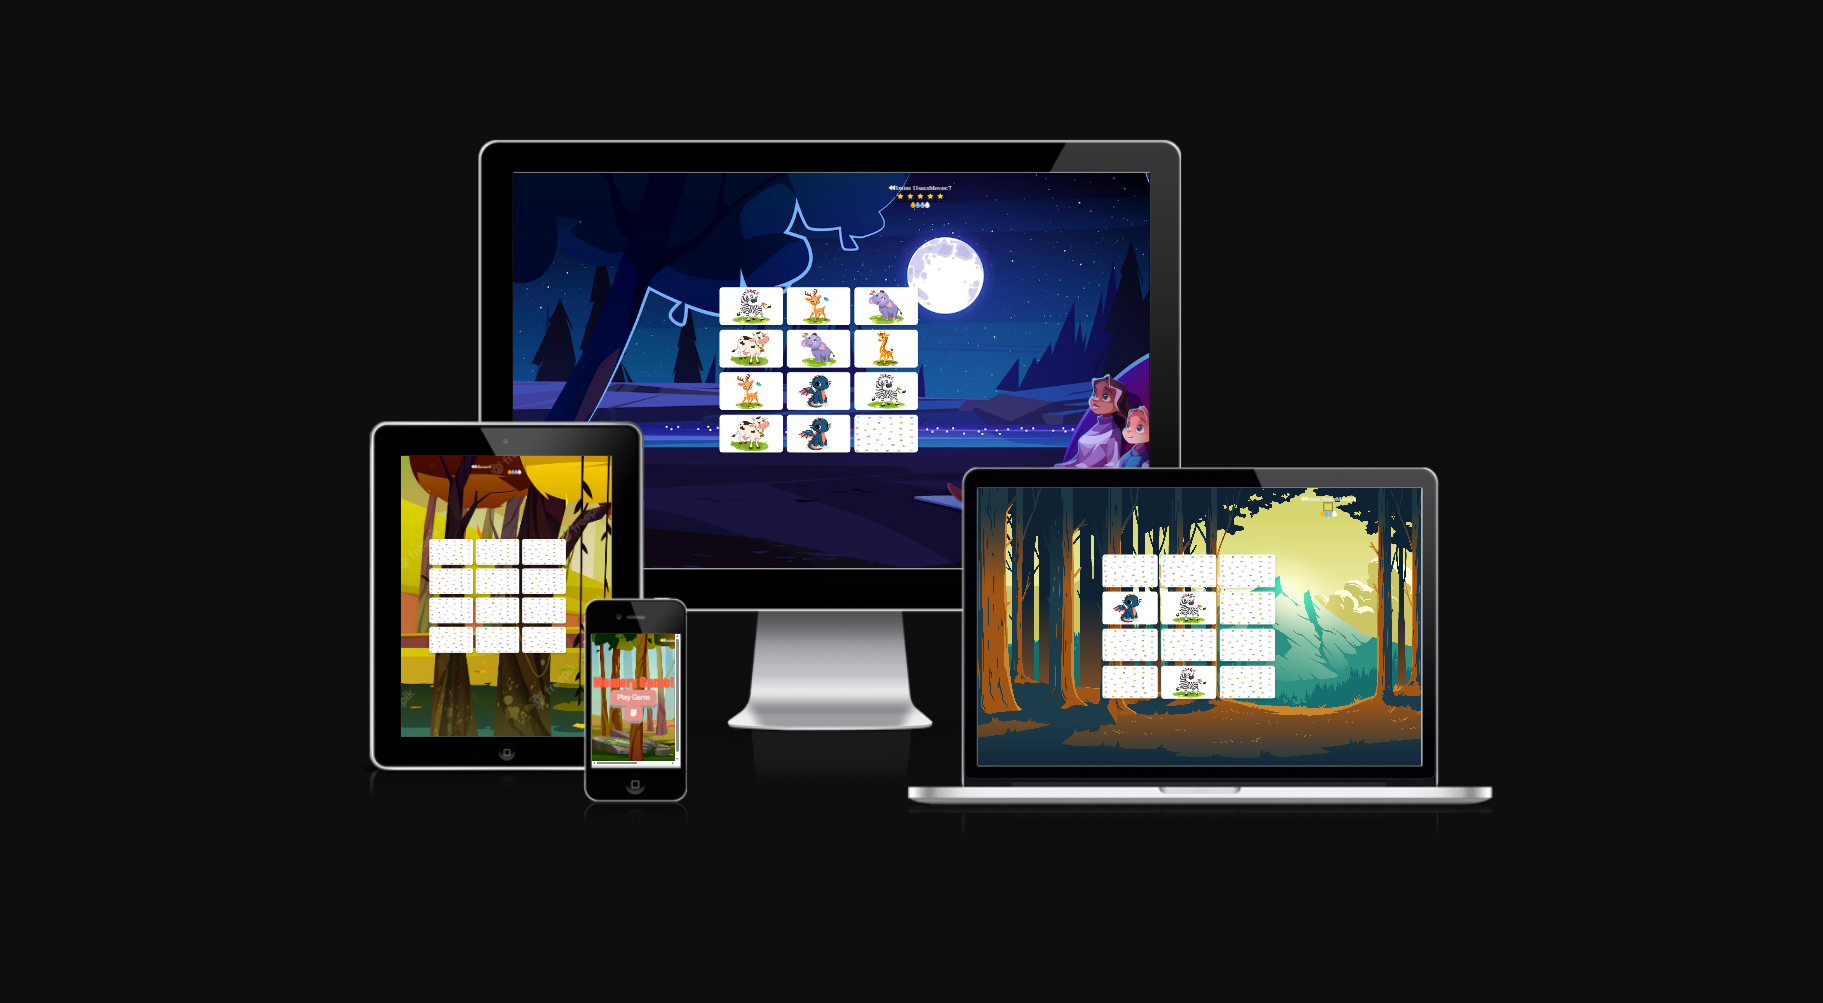
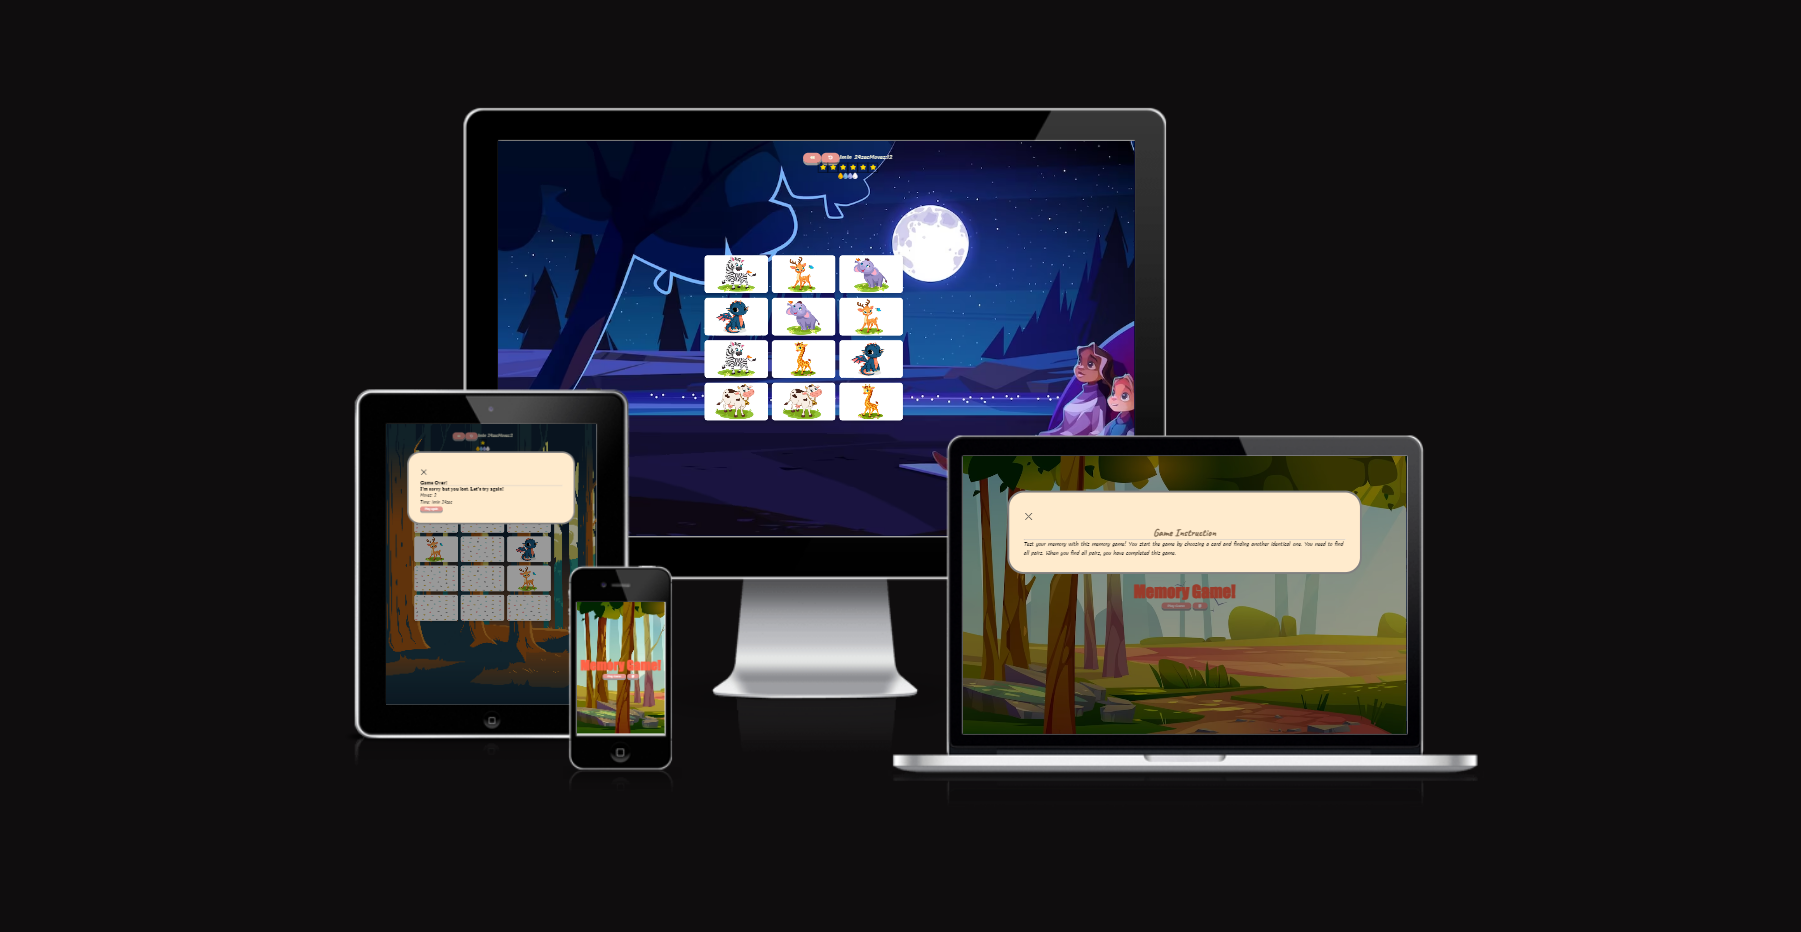
Updated structure to html file after validator testing

Changed region(s): [[0.1866, 0.0933, 0.8395, 0.8401]]

diff --git a/index.html b/index.html
@@ -1,169 +1,137 @@
 <!DOCTYPE html>
 <html lang="en">
 
-<head>
-    <meta charset="UTF-8">
-    <meta name="viewport" content="width=device-width, initial-scale=1.0">
-
-    <!-- font awesome and google fonts -->
-    <link rel="stylesheet" href="https://use.fontawesome.com/releases/v5.7.2/css/all.css"
-        integrity="sha384-fnmOCqbTlWIlj8LyTjo7mOUStjsKC4pOpQbqyi7RrhN7udi9RwhKkMHpvLbHG9Sr" crossorigin="anonymous">
-    <link href="https://fonts.googleapis.com/css2?family=Poppins:wght@400;600&display=swap"rel="stylesheet"/>
-    <link rel="stylesheet" href="https://cdnjs.cloudflare.com/ajax/libs/hover.css/2.1.1/css/hover-min.css" type="text/css" />
-    <link rel="stylesheet" href="assets/css/style.css">
-    
-    
-    <title>Memory Game</title>
-<body>
-
+  <head>
+      <meta charset="UTF-8">
+      <meta name="viewport" content="width=device-width, initial-scale=1.0">
+      <link rel="stylesheet" href="https://use.fontawesome.com/releases/v5.7.2/css/all.css"
+          integrity="sha384-fnmOCqbTlWIlj8LyTjo7mOUStjsKC4pOpQbqyi7RrhN7udi9RwhKkMHpvLbHG9Sr" crossorigin="anonymous">
+      <link rel="stylesheet" href="assets/css/style.css">
+      <title>Memory Game</title>
+  </head>
+  
+  <body>
   <div id="home">
     <h1> Memory Game! </h1>
-    <div>
-    <button onclick="startPage()"> Play Game </button>
-     <!-- Instruction modal-->
-     <button id="instructionButton">
-      <i class="fa-solid fa-sheet-plastic"></i>
-    </button>
-  </div>
-  
-   <!--The Modal--> 
-  <div id="myInstruction" class="instruction">
-  
-    <!--Modal content --> 
-    <div class="content">
-      <span class="closeInstruction">&times;</span>
-      <h2>Game Instruction</h2>
-      <hr>
-        <p>Test your memory with this memory game! You start 
-        the game by choosing a card and finding another identical one. 
-        You need to find all pairs. When you find all pairs, you have 
-        completed this game.
-        </p>
-    </div>
+      <div>
+        <button onclick="startPage()"> Play Game </button>
+        <!-- Instruction modal-->
+        <button id="instructionButton">
+          <i class="fa-solid fa-sheet-plastic"></i>
+        </button>
       </div>
-  </div>
-    <audio id="flipCardSound" src="assets/audio/mixkit-game-ball-tap-2073.wav"></audio>
-    <audio id="matchSound" src="assets/audio/success-1-6297.mp3"></audio>
-    <audio id="gameOverSound" src="assets/audio/mixkit-retro-arcade-lose-2027.wav"></audio>
-
-<section class="score-panel">
-    <div class="game-panel">
-      <button onclick="startPage()">
-        <i class="fa-solid fa-backward" style="color: beige;"></i>
-      </button>
-      <button onclick="restartGame()">
-        <i class="fa-solid fa-arrow-rotate-left"></i>
-      </button>
-      <p class="timer" style="color: beige;"></p>
-      <p style="color:beige;">Moves: </p>
-      <p class="moves" style="color:beige;">0</p>
-  </div>
-  <div id="starIcon"></div>
   
-  <div class="score-board">
+      <!--The Modal--> 
+      <div id="myInstruction" class="instruction">
+        <!--Modal content --> 
+        <div class="content">
+          <span class="closeInstruction">&times;</span>
+          <h2>Game Instruction</h2>
+          <hr>
+          <p>Test your memory with this memory game! You start 
+          the game by choosing a card and finding another identical one. 
+          You need to find all pairs. When you find all pairs, you have 
+          completed this game.
+          </p>
+        </div>
+      </div>
+      </div>
 
-        
-    <div class="color-yellow" onclick="changeBackgroundYellow()">
-        <i class="fa-solid fa-droplet" style="color: #FFBA00;"></i>
-    </div>
-    <div class="color-blue" onclick="changeBackgroundBlue()">
-        <i class="fa-solid fa-droplet" style="color: rgb(125 180 222);"></i>
-    </div>
-    <div class="color-grey" onclick="changeBackgroundGrey()">
-        <i class="fa-solid fa-droplet" style="color: rgb(167 174 235);"></i>
-    </div>
-    <div class="color-white" onclick="changeBackgroundWhite()">
-        <i class="fa-solid fa-droplet" style="color: snow"></i> 
-    </div>
-    
-</div>
-  
-  
-</section>
+      <audio id="flipCardSound" src="assets/audio/mixkit-game-ball-tap-2073.wav"></audio>
+      <audio id="matchSound" src="assets/audio/success-1-6297.mp3"></audio>
 
-    <div class="memory-game">
-      
+      <div class="score-panel">
+        <div class="game-panel">
+          <button onclick="startPage()">
+            <i class="fa-solid fa-backward" style="color: beige;"></i>
+          </button>
+          <button onclick="restartGame()">
+            <i class="fa-solid fa-arrow-rotate-left"></i>
+          </button>
+          <p class="timer" style="color: beige;"></p>
+          <p style="color:beige;">Moves: </p>
+          <p class="moves" style="color:beige;">0</p>
+        </div>
+        <div id="starIcon"></div>
+  
+        <div class="score-board">
+          <div class="color-yellow" onclick="changeBackgroundYellow()">
+              <i class="fa-solid fa-droplet" style="color: #FFBA00;"></i>
+          </div>
+          <div class="color-blue" onclick="changeBackgroundBlue()">
+              <i class="fa-solid fa-droplet" style="color: rgb(125 180 222);"></i>
+          </div>
+          <div class="color-grey" onclick="changeBackgroundGrey()">
+              <i class="fa-solid fa-droplet" style="color: rgb(167 174 235);"></i>
+          </div>
+          <div class="color-white" onclick="changeBackgroundWhite()">
+              <i class="fa-solid fa-droplet" style="color: snow"></i> 
+          </div>
+        </div>
+      </div>
+      <div class="memory-game">
         <div class="memory-card" data-framework="zebra">
           <img class="front-face" src="assets/images/img-1.png" alt="Zebra">
           <img class="back-face" src="assets/images/img-front.png" alt="Memory Card">
         </div>
-      
         <div class="memory-card" data-framework="zebra">
           <img class="front-face" src="assets/images/img-1.png" alt="Zebra">
           <img class="back-face" src="assets/images/img-front.png" alt="Memory Card">
         </div>
-      
         <div class="memory-card" data-framework="elephant">
           <img class="front-face" src="assets/images/img-2.png" alt="Elephant">
           <img class="back-face" src="assets/images/img-front.png" alt="Memory Card">
         </div>
-      
         <div class="memory-card" data-framework="elephant">
           <img class="front-face" src="assets/images/img-2.png" alt="Elephant">
           <img class="back-face" src="assets/images/img-front.png" alt="Memory Card">
         </div>
-      
         <div class="memory-card" data-framework="giraffe">
           <img class="front-face" src="assets/images/img-3.png" alt="Giraffe">
           <img class="back-face" src="assets/images/img-front.png" alt="Memory Card">
         </div>
-      
         <div class="memory-card" data-framework="giraffe">
           <img class="front-face" src="assets/images/img-3.png" alt="Giraffe">
           <img class="back-face" src="assets/images/img-front.png" alt="Memory Card">
         </div>
-      
         <div class="memory-card" data-framework="roe">
           <img class="front-face" src="assets/images/img-4.png" alt="Roe">
           <img class="back-face" src="assets/images/img-front.png" alt="Memory Card">
         </div>
-      
         <div class="memory-card" data-framework="roe">
           <img class="front-face" src="assets/images/img-4.png" alt="Roe">
           <img class="back-face" src="assets/images/img-front.png" alt="Memory Card">
         </div>
-      
         <div class="memory-card" data-framework="cow">
           <img class="front-face" src="assets/images/img-5.png" alt="Cow">
           <img class="back-face" src="assets/images/img-front.png" alt="Memory Card">
         </div>
-      
         <div class="memory-card" data-framework="cow">
           <img class="front-face" src="assets/images/img-5.png" alt="Cow">
           <img class="back-face" src="assets/images/img-front.png" alt="Memory Card">
         </div>
-      
         <div class="memory-card" data-framework="dragon">
           <img class="front-face" src="assets/images/img-6.png" alt="Dragon">
           <img class="back-face" src="assets/images/img-front.png" alt="Memory Card">
         </div>
-      
         <div class="memory-card" data-framework="dragon">
           <img class="front-face" src="assets/images/img-6.png" alt="Dragon">
           <img class="back-face" src="assets/images/img-front.png" alt="Memory Card">
         </div>
-    </div> 
-    
- 
-<!-- Game Over Modal -->
-    <div id="gameOverModal" class="gameover">
-      <div class="content">
-        <span aria-hidden="true" class="close">&times;</span>
-        <h3>Game Over!</h3>
-        <hr>
-        <h3 id="feedback"></h3>
-        <p>Moves: <span id="finalMove"></span></p>
-        <p>Time: <span id="totalTime"></span></p>
-        <button onclick="restartGame()">Play again</button>
-        
-        
+      </div> 
+      <!-- Game Over Modal -->
+      <div id="gameOverModal" class="gameover">
+        <div class="content">
+          <span aria-hidden="true" class="close">&times;</span>
+          <h3>Game Over!</h3>
+          <hr>
+          <p id="feedback"> </p>
+          <p>Moves: <span id="finalMove"></span></p>
+          <p>Time: <span id="totalTime"></span></p>
+          <button onclick="restartGame()">Play again</button>
+        </div>
       </div>
-    </div>
-    
-
-    <script src="assets/js/script.js"></script>
-    
-    <script src="https://kit.fontawesome.com/142db3e41a.js" crossorigin="anonymous"></script>
-</body>
-
+      <script src="assets/js/script.js"></script>  
+      <script src="https://kit.fontawesome.com/142db3e41a.js" crossorigin="anonymous"></script>
+  </body>
 </html>

diff --git a/assets/css/style.css b/assets/css/style.css
@@ -250,7 +250,5 @@ button {
 .score-panel {
   margin-left: 31em;
 }
-.content {
-  width: 80%;
-} 
+
   }
